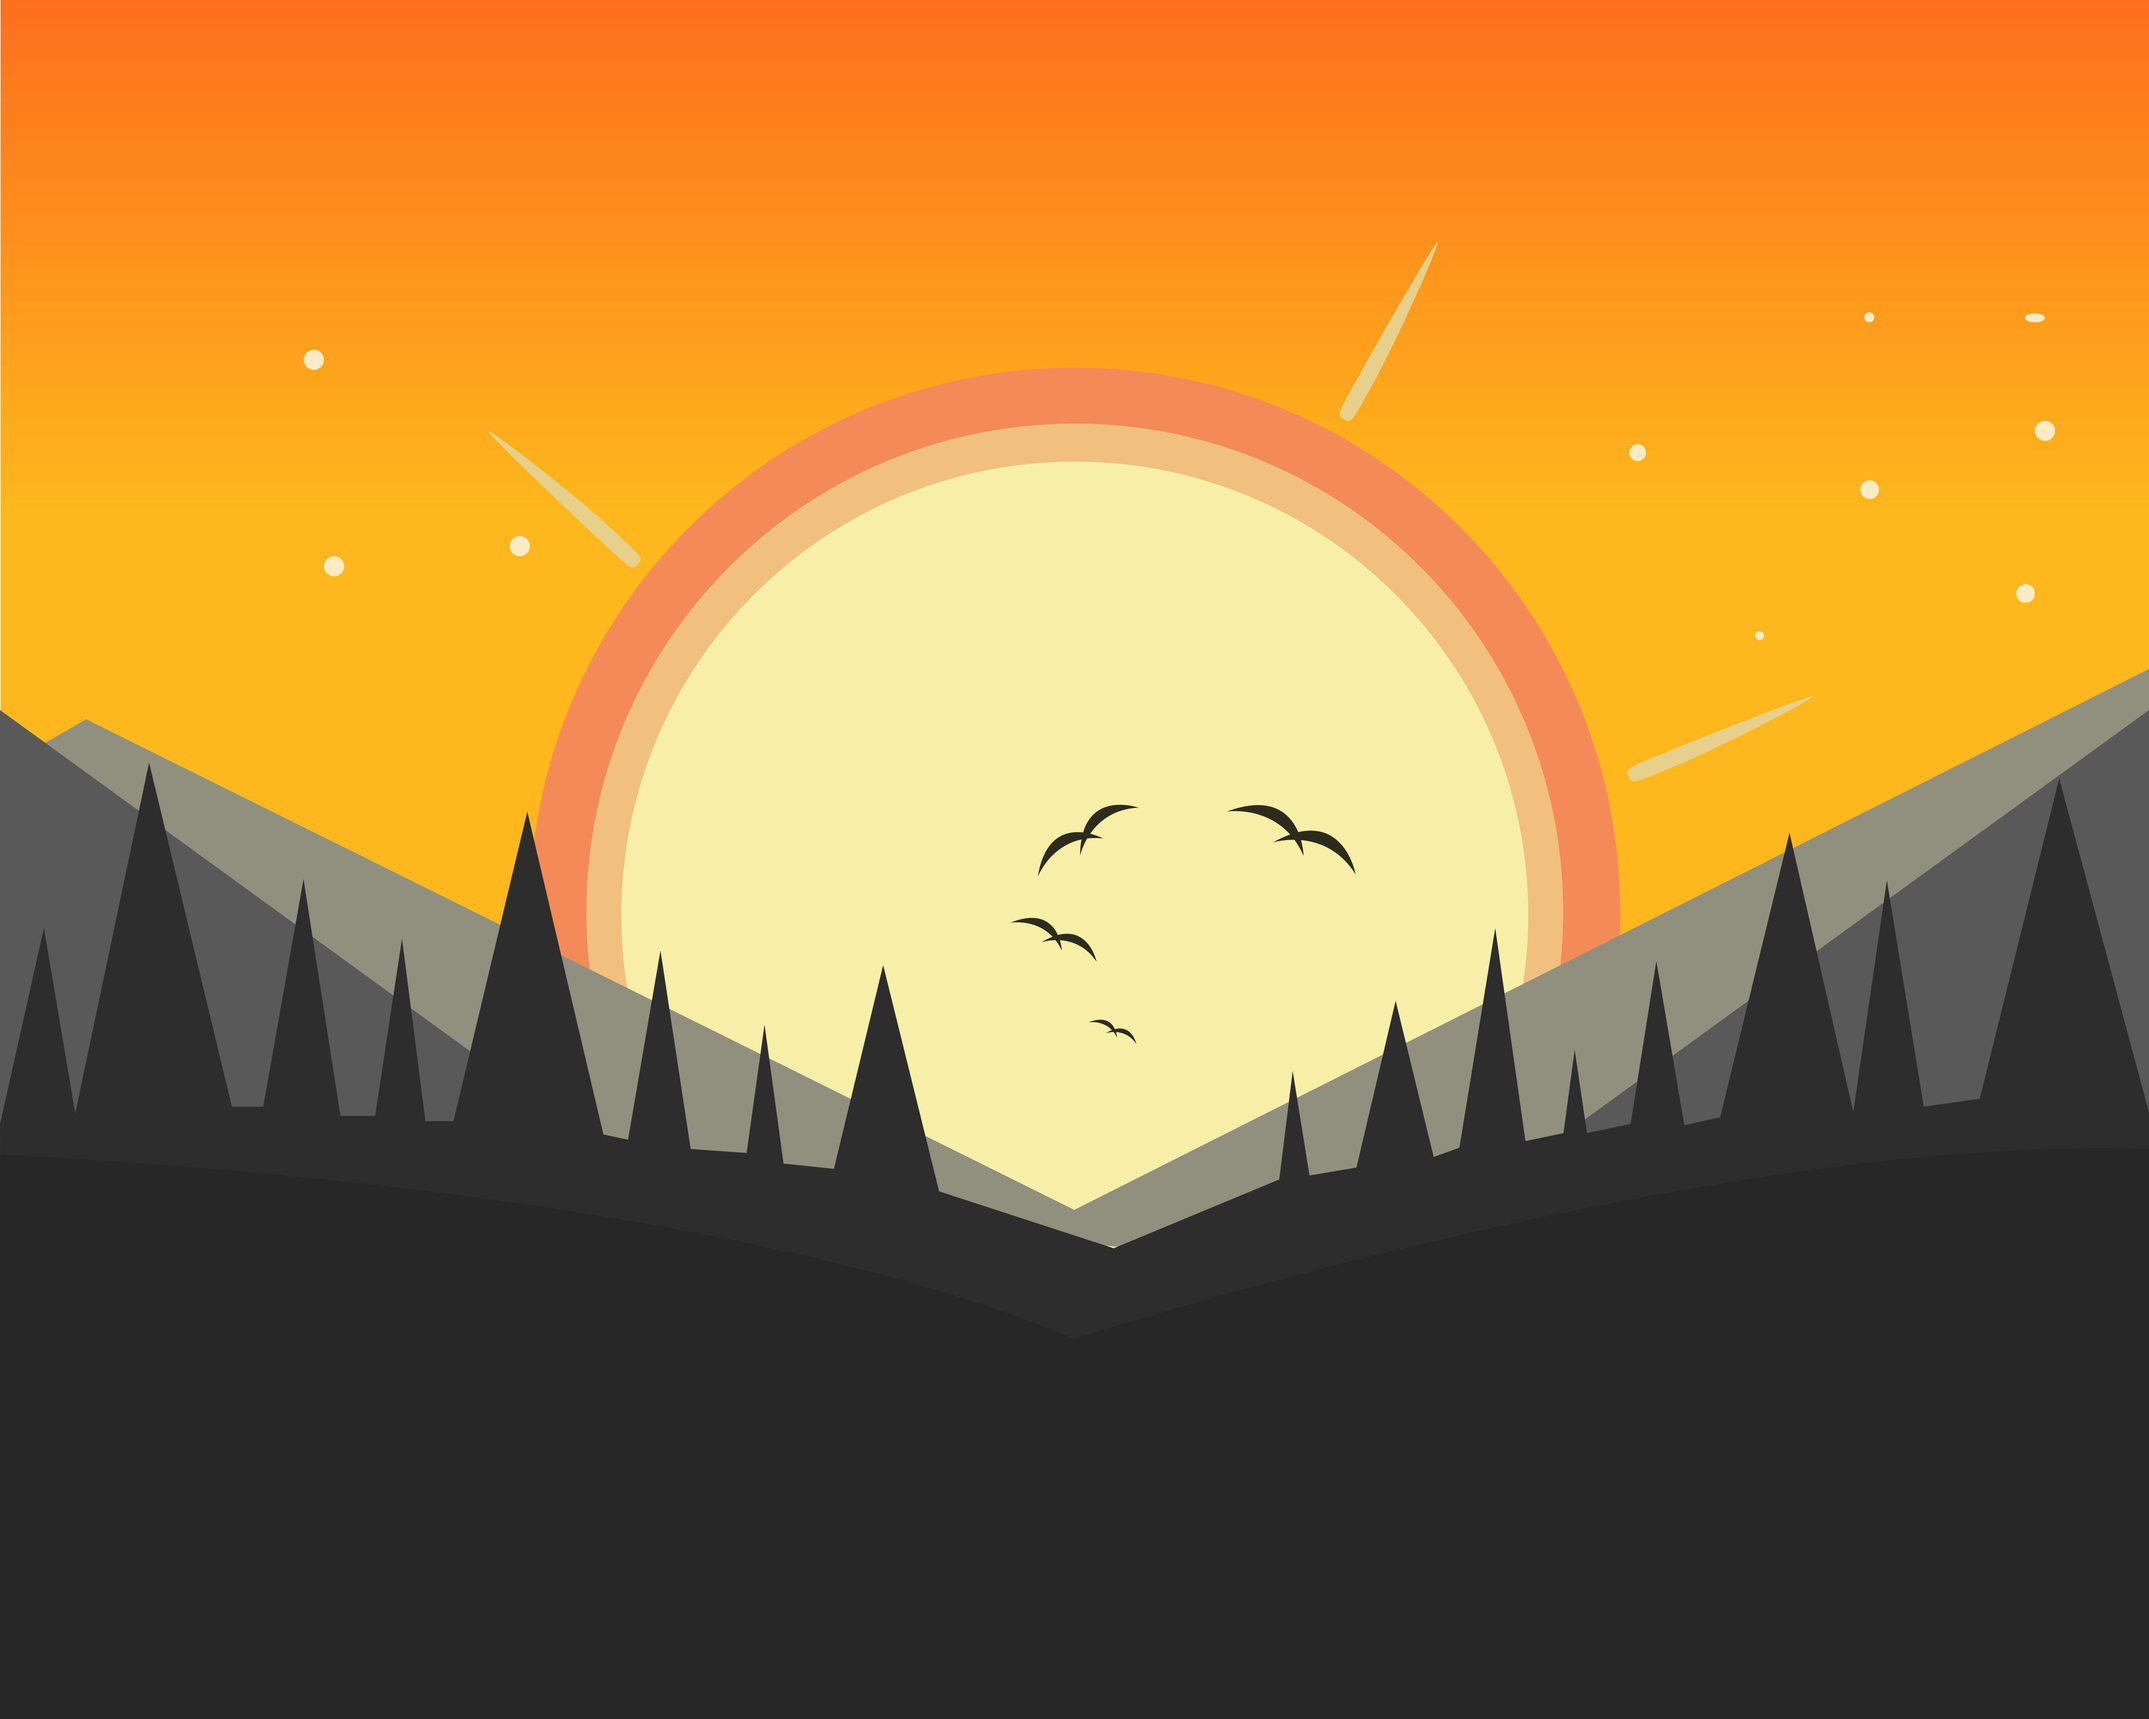
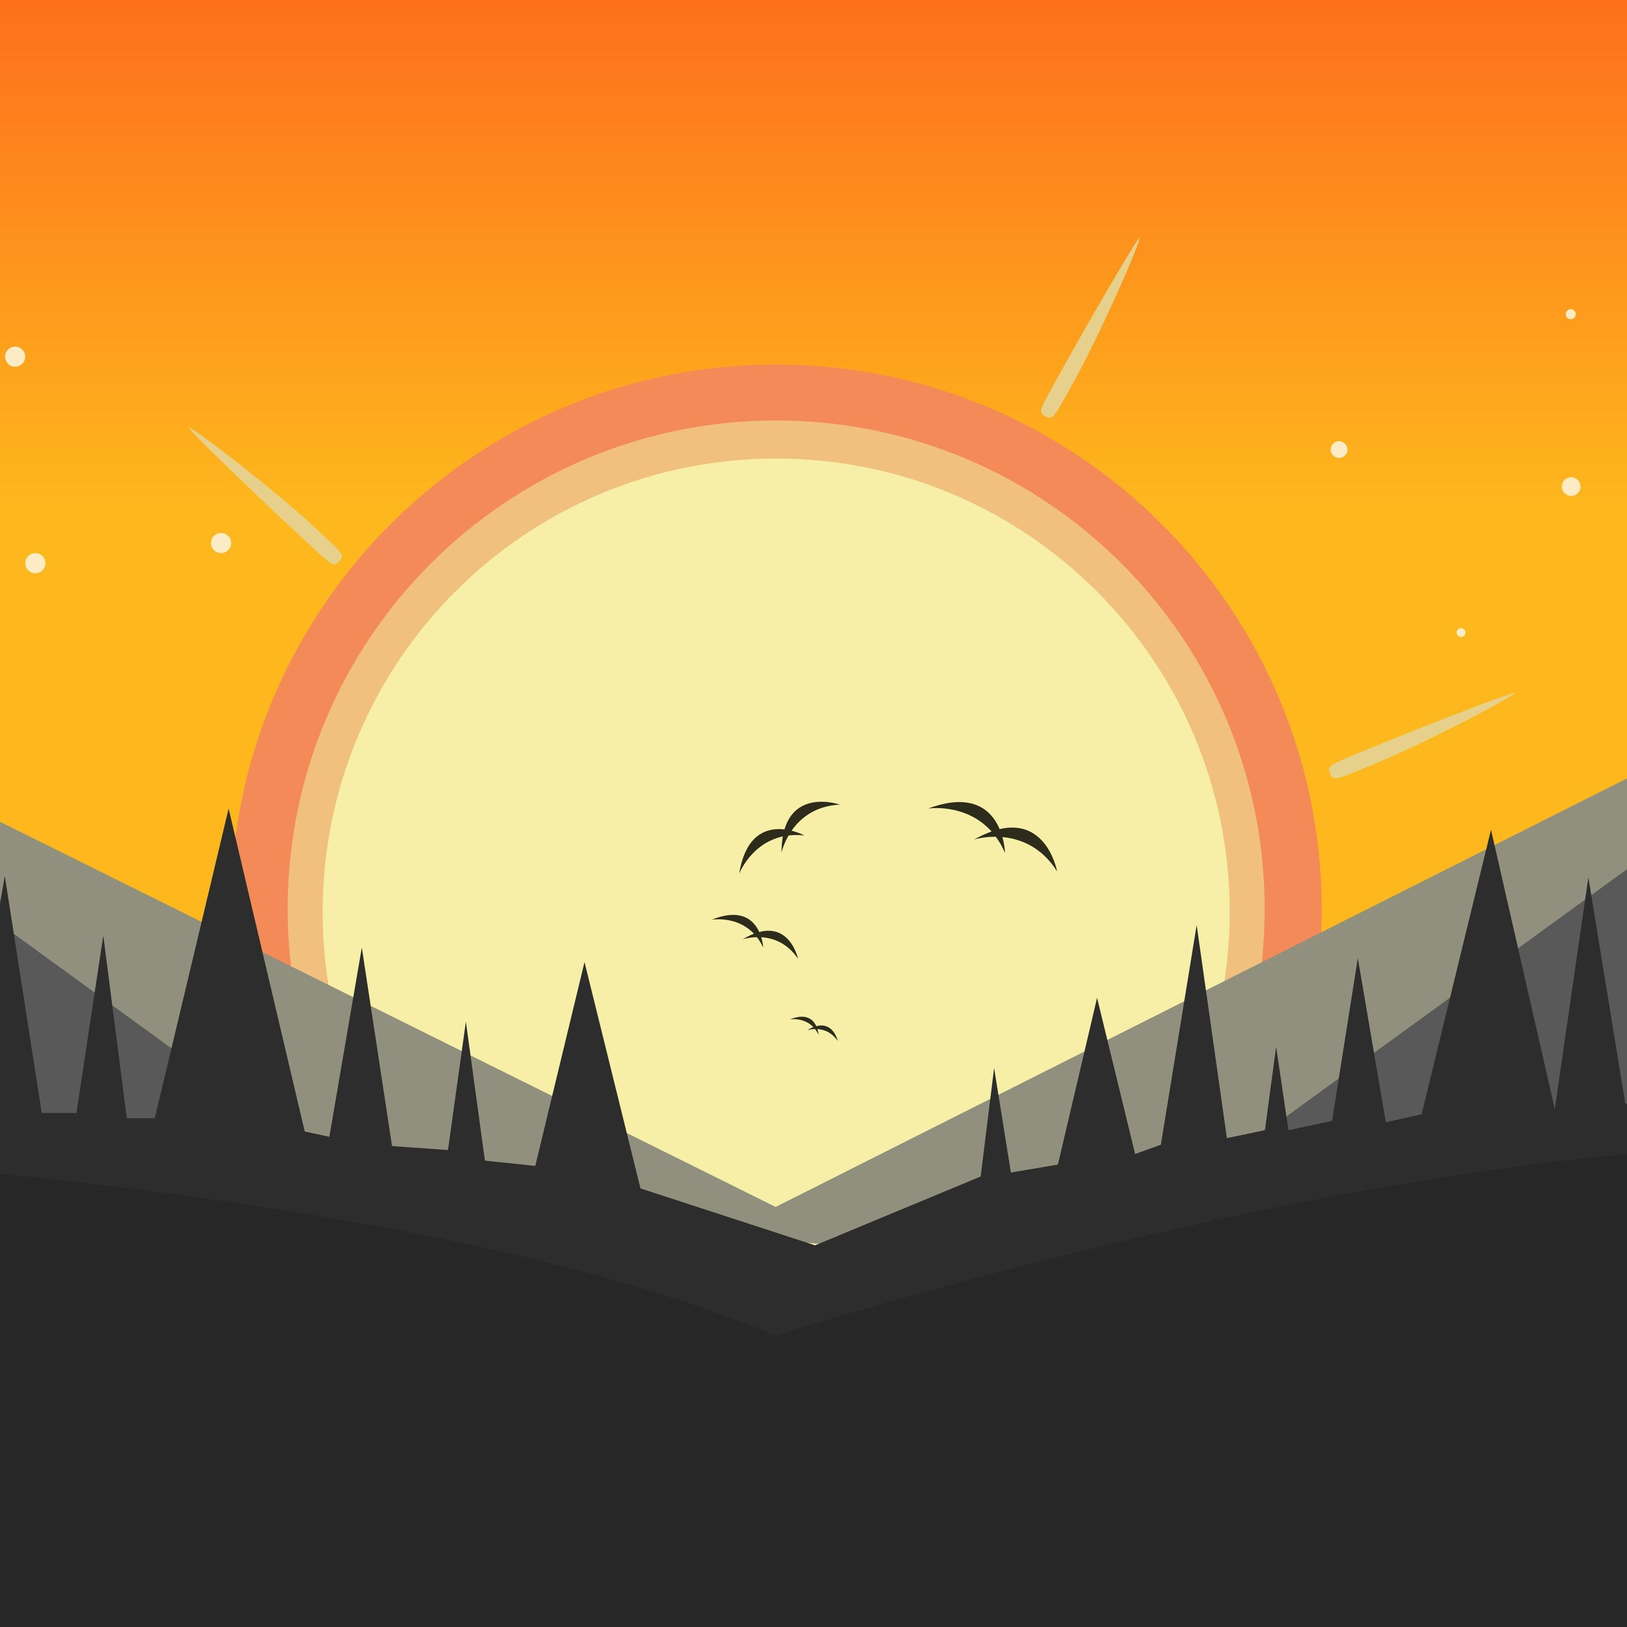
Finjusterat galleriet och gjort lite bredare hero

diff --git a/index.html b/index.html
@@ -38,7 +38,7 @@
 
         <div class="hero">
             <figure class="hero__image">
-                <img src="images/herobildsmalare.jpg" alt="">
+                <img src="images/herobildMittemellanbred.jpg" alt="">
             </figure>
         </div>
 
